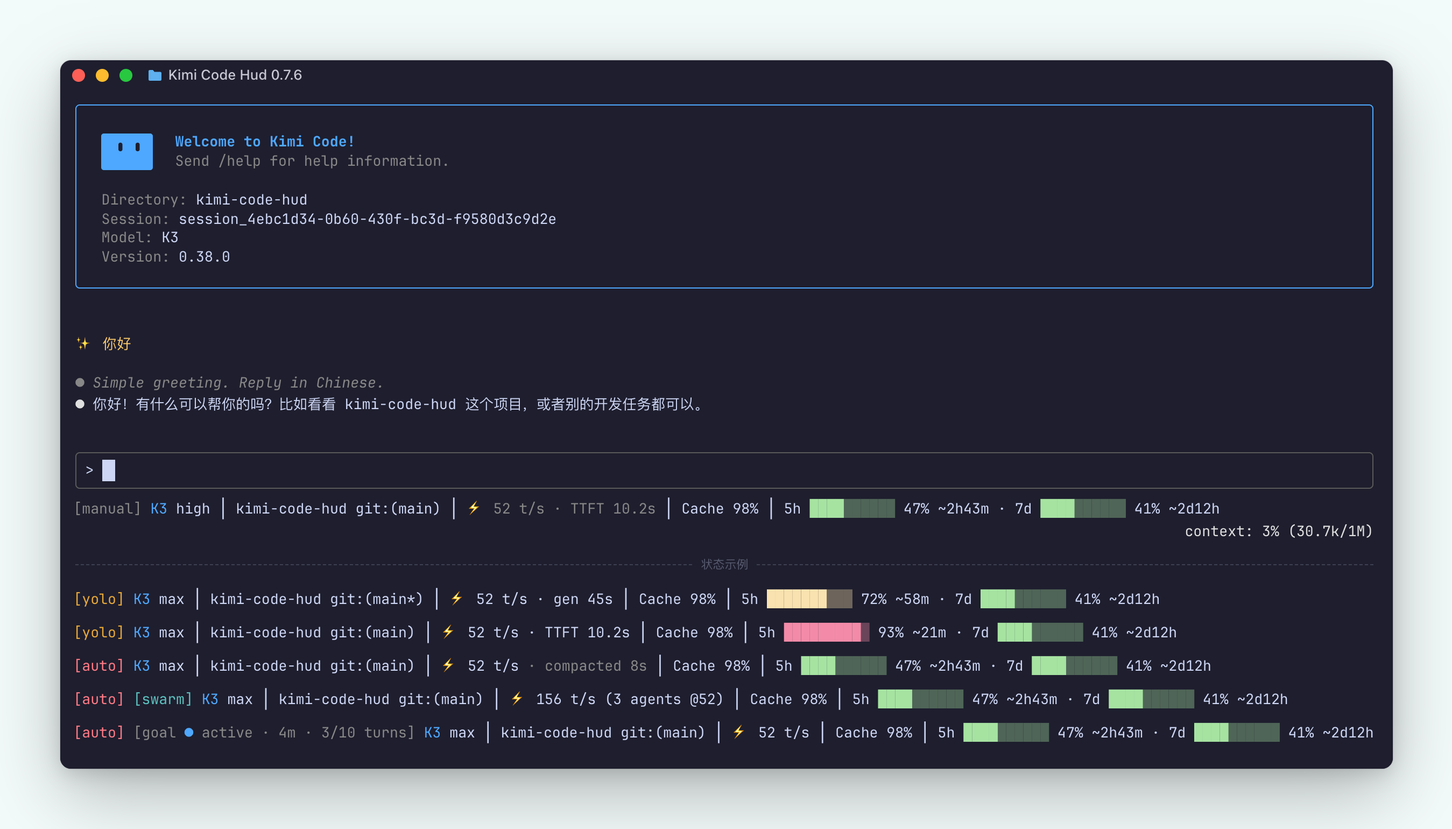
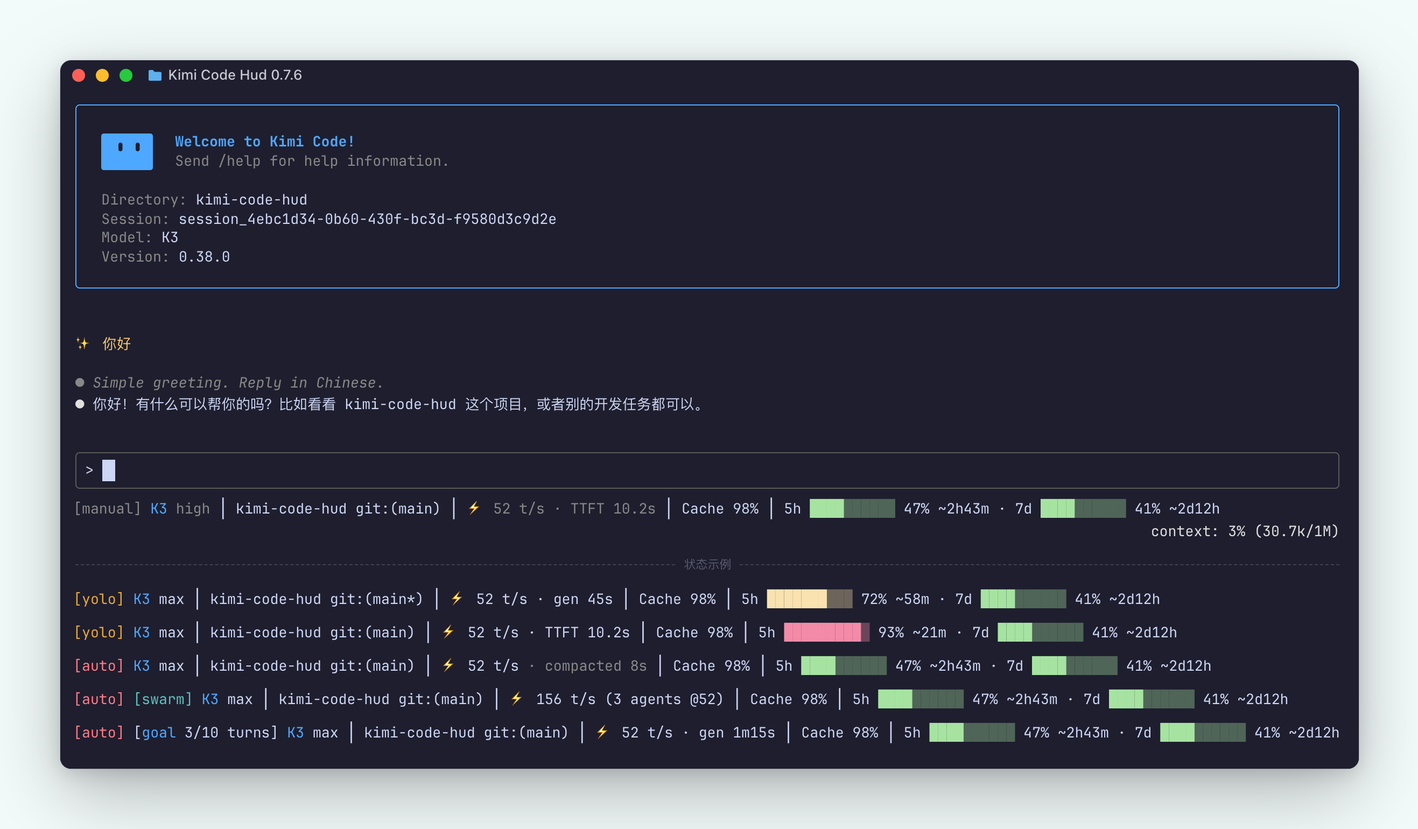
feat: goal 徽章简化为状态着色单词并移除时长

diff --git a/README.en.md b/README.en.md
@@ -102,7 +102,7 @@ normal:  [manual] K3 high │ kimi-code-hud git:(main*) │ ⚡ 47 t/s · TTFT 1
 In /goal mode a goal badge is inserted between the mode badges and the model (shown in every tier, matching the built-in footer's slot order):
 
 ```
-[manual] [goal ● active · 4m · 7 turns] K3 high │ …
+[manual] [goal 7 turns] K3 high │ …
 ```
 
 While background tasks run, task badges are inserted between the model and the directory (shown in every tier; each category hides at zero):
@@ -112,7 +112,7 @@ While background tasks run, task badges are inserted between the model and the d
 ```
 
 - Model name: painted in the host's primary blue (dark theme `#4FA8FF` / light theme `#1565C0`, the blue used for links and inline code in the conversation, following the resolved theme). The model suffix shows thinking state: ` thinking` for boolean models, a bare effort level for effort-capable ones (e.g. `K3 high`, compact keeps the same ` <effort>` suffix). The status-line payload does not carry it; prefer the session-log events — newer hosts bind the session profile once at start as `profile.bind` (older hosts used `config.update`) with `modelAlias` + `thinkingEffort` (older key `thinkingLevel`), and every `llm.request` row also carries the effort and model alias the request actually ran with, so an in-session effort/model switch that emits no profile/config row still updates the HUD on the next request. When neither exists, pin the value per session in `~/.kimi-code-hud/thinking-<sessionId>.json`; only when no snapshot exists does it fall back to the `[thinking]` and model tables in `~/.kimi-code/config.toml` and write the snapshot — so another session running `/effort`, which rewrites the global config, no longer changes what this session shows. The snapshot records the provenance: a wire-confirmed level keeps the default foreground, while a level only inferred from config (before the first turn's wire rows on a lazy-started session) renders muted gray and returns to normal once the wire confirms the actual effort;
-- Goal badge: mirrors the built-in footer's format (`[goal ● <status> · <elapsed> · <turns>]`, `3/10 turns` when a turn budget is set; dot: active blue / blocked amber / paused muted). The status-line payload carries no goal field, so the state is rebuilt from the session log's `goal.create`/`goal.update`/`goal.clear`/`forked` ops in `wire.jsonl` (same incremental scan as TPS); an active goal ticks every second from `wallClockResumedAt`, and the badge disappears once the goal completes or is cleared. While the badge is up, the speed segment keeps throughput only: the `gen` timer, TTFT and the compaction state all hide — the badge already carries the session clock, the same reason auto-compactions inside a turn stay hidden;
+- Goal badge: `[goal <turns>]` (`3/10 turns` = used/limit when the goal carries a turn budget); all three states share one shape and differ only in color — active/blocked paint the word "goal" blue / amber with the brackets and turn count in the default foreground, paused renders the whole badge muted. The status-line payload carries no goal field, so the state is rebuilt from the session log's `goal.create`/`goal.update`/`goal.clear`/`forked` ops in `wire.jsonl` (same incremental scan as TPS); the badge disappears once the goal completes or is cleared. The badge renders no clock, so the speed segment's `gen` timer, TTFT and compaction states keep showing while a goal is live;
 - TPS: only accepts `step.end` samples whose streaming phase lasts at least 250ms and whose calculated rate is no higher than 1000 t/s. With fewer than 3 valid samples a provisional reading (the median of whatever fresh samples exist) shows in muted gray; at 3 samples the full median of the latest 5 at most takes over in normal brightness. When the window expires (the last sample is older than 2 minutes) the segment does not disappear: the last median stays visible in muted gray, and the first sample of a fresh window immediately takes over as a muted provisional reading. A model change discards the old median and restarts the warmup. Only when no valid sample exists at all (e.g. a brand-new session before its first `step.end`) does the latest TTFT show on its own;
 - Cache: the token-weighted prompt-cache hit rate for the whole session, `Σ inputCacheRead / Σ (inputOther + inputCacheRead + inputCacheCreation)`, accumulated across turns over every main-agent model request (steps with incomplete usage fields are skipped). Because the number is cumulative, it is always the latest complete value and stays bright between prompts instead of flashing gray at each turn start. The segment is omitted only while the session has no data at all. Both tiers show only the percentage; no red/yellow/green quality threshold is applied;
 - Quota: bar + percentage + reset countdown in normal; compact drops the bar and keeps percentage + countdown; the weekly (7d) segment appears only in normal. Quota shows only while the active model is served by the managed Kimi Code subscription (`managed:kimi-code`) — models from third-party providers added via `/provider` hide the whole section (the quota API describes the managed subscription only, not what the session is actually consuming); `/logout` deletes the cache together with the credentials;
@@ -135,7 +135,7 @@ Data sources:
 | Segment | Source |
 |---|---|
 | model / branch | stdin snapshot + `git status --porcelain=v1 --branch` resolved from PATH to an absolute executable outside the workspace; results persist across command processes in `~/.kimi-code-hud/git-status-cache.json`, keyed only by a cwd SHA-256, for 15 seconds and at most 64 worktrees; the child runs with `GIT_OPTIONAL_LOCKS=0`, and each probe still has a 150ms ceiling; no trusted `git` silently omits the dirty marker |
-| TPS / TTFT / Cache / thinking / goal / swarm / model usage | incremental parsing of `turn.prompt`, `step.end`, `usage.record`, `llm.request`, `turn.cancel`, `config.update`, `goal.*`, `swarm_mode.*` and `full_compaction.*` events in **all** `~/.kimi-code/sessions/*/session_<id>/agents/*/wire.jsonl` of the session (main + every subagent; legacy `ses_<id>` also supported). Samples carry the event timestamp and are bucketed per agent: only the freshest 5 within the last 10 minutes feed each agent's median, so resume continuations, long idle gaps and compactions never mix in stale numbers. With several agents active at once (swarm/subagent runs — a sample within 2 minutes or a request in flight; a subagent leaves the count the moment its turn ends with the closing `end_turn`, without waiting out the 2-minute window) the segment shows the **fleet total plus head count and per-agent average** (`⚡ 305 t/s (12 agents @25)` — 305 is the sum of the active agents' median speeds, `@25` their mean); when the main agent feeds the figure the head count reads `main+N` (e.g. `⚡ 465 t/s (main+4 @93)`) so it can't be mistaken for a pure subagent count; in swarm mode a parked main (blocked waiting on its subagents, no request in flight) is excluded immediately, and outside swarm mode an idle main settles back out once it ages past the 2-minute window. TTFT is the median across active agents so one stuck agent cannot poison the display. While a turn is running (from `turn.prompt` until `end_turn`/`turn.cancel`) the segment swaps TTFT for a live `gen Ns` timer that spans tool calls and steps — how long the command has been working, not just one request (the timer, TTFT and the compaction state all hide while the goal badge is up, leaving throughput only). A between-turns compaction (manual `/compact`, from `full_compaction.begin` until `complete`/`cancel`) takes the same TTFT slot: a live `compacting Ns` ticker, then the dimmed `compacted Ns` holds the slot until the next prompt's `gen` timer takes over — auto-compactions inside a turn are not shown (the `gen` timer covers that span). Cache, thinking, goal and swarm read the main agent's wire only. Model usage has a dedicated cursor over every agent's `usage.record`, accumulates the four token classes by model, and enters cost calculation only after every wire is caught up. Cursors and content-free token counts persist in `~/.kimi-code-hud/metrics-<sessionId>.json`; prompts, responses, and tool output are never stored |
+| TPS / TTFT / Cache / thinking / goal / swarm / model usage | incremental parsing of `turn.prompt`, `step.end`, `usage.record`, `llm.request`, `turn.cancel`, `config.update`, `goal.*`, `swarm_mode.*` and `full_compaction.*` events in **all** `~/.kimi-code/sessions/*/session_<id>/agents/*/wire.jsonl` of the session (main + every subagent; legacy `ses_<id>` also supported). Samples carry the event timestamp and are bucketed per agent: only the freshest 5 within the last 10 minutes feed each agent's median, so resume continuations, long idle gaps and compactions never mix in stale numbers. With several agents active at once (swarm/subagent runs — a sample within 2 minutes or a request in flight; a subagent leaves the count the moment its turn ends with the closing `end_turn`, without waiting out the 2-minute window) the segment shows the **fleet total plus head count and per-agent average** (`⚡ 305 t/s (12 agents @25)` — 305 is the sum of the active agents' median speeds, `@25` their mean); when the main agent feeds the figure the head count reads `main+N` (e.g. `⚡ 465 t/s (main+4 @93)`) so it can't be mistaken for a pure subagent count; in swarm mode a parked main (blocked waiting on its subagents, no request in flight) is excluded immediately, and outside swarm mode an idle main settles back out once it ages past the 2-minute window. TTFT is the median across active agents so one stuck agent cannot poison the display. While a turn is running (from `turn.prompt` until `end_turn`/`turn.cancel`) the segment swaps TTFT for a live `gen Ns` timer that spans tool calls and steps — how long the command has been working, not just one request. A between-turns compaction (manual `/compact`, from `full_compaction.begin` until `complete`/`cancel`) takes the same TTFT slot: a live `compacting Ns` ticker, then the dimmed `compacted Ns` holds the slot until the next prompt's `gen` timer takes over — auto-compactions inside a turn are not shown (the `gen` timer covers that span). Cache, thinking, goal and swarm read the main agent's wire only. Model usage has a dedicated cursor over every agent's `usage.record`, accumulates the four token classes by model, and enters cost calculation only after every wire is caught up. Cursors and content-free token counts persist in `~/.kimi-code-hud/metrics-<sessionId>.json`; prompts, responses, and tool output are never stored |
 | quota (5h/7d) | the official `/usages` quota API — `GET https://api.kimi.com/coding/v1/usages` by default; with 0.38.0 dual-region, the region is resolved from env `KIMI_CODE_OAUTH_HOST`/`KIMI_OAUTH_HOST` → config.toml's `[providers."managed:kimi-code".oauth]` (`oauth_host`/`key`) and the provider table's `base_url`, and a global login switches to `https://api.kimi.ai/coding/v1/usages` with the scoped credential file derived from the oauth key — any non-official host/base_url fails closed to the default. Cached 60s in `~/.kimi-code-hud/quota.json`; when stale, the hot path renders the stale cache and spawns a detached background refresh — never blocking. Rendered and refreshed only while the active model can be attributed explicitly to `managed:kimi-code` (resolved from the session log's `modelAlias` via the `provider` key of the matching `config.toml` model table). Missing providers, unreadable config, and unresolved models fail closed: neither quota nor provider usage is rendered or refreshed. The cache is deleted when the credentials are gone (`/logout`); a 401 with a refresh_token still present (expired access_token — common while idle, since the CLI refreshes lazily) keeps the stale cache until the refresh succeeds |
 | provider usage | active `modelAlias` → model table → provider table in `config.toml`. DeepSeek balance comes from the official `GET https://api.deepseek.com/user/balance`, isolated by provider + API-key fingerprint under `~/.kimi-code-hud/provider-usage/`; the hot path reads cache only and refreshes in the background. Its Session Cost, like OpenAI / Anthropic, combines the local all-agent model-usage ledger with built-in official standard pricing and selects the CNY or USD table from the balance response. Balance and cost facts are collected independently and can render together; unknown currency, custom proxies, unknown models, and mixed-provider ledgers fail closed |
 

diff --git a/README.md b/README.md
@@ -102,7 +102,7 @@ normal:  [manual] K3 high │ kimi-code-hud git:(main*) │ ⚡ 47 t/s · TTFT 1
 /goal 模式下，模式徽章与模型之间插入 goal 徽章（两档都显示，与宿主默认 footer 的槽位顺序一致）：
 
 ```
-[manual] [goal ● active · 4m · 7 turns] K3 high │ …
+[manual] [goal 7 turns] K3 high │ …
 ```
 
 后台任务运行时，模型与目录之间插入任务徽章（两档都显示，为 0 的类别各自隐藏）：
@@ -112,7 +112,7 @@ normal:  [manual] K3 high │ kimi-code-hud git:(main*) │ ⚡ 47 t/s · TTFT 1
 ```
 
 - 模型名以宿主主蓝色（dark 主题 `#4FA8FF` / light 主题 `#1565C0`，即对话中链接/行内代码的蓝，随主题切换）显示；模型后缀显示 thinking 状态：布尔模型为 ` thinking`，支持 effort 的模型直接显示强度（如 `K3 high`，compact 档同样只保留 ` <effort>`）（status line payload 不含此字段；优先取会话日志事件——新版宿主会话启动时以 `profile.bind`（旧版为 `config.update`）记录 `modelAlias` + `thinkingEffort`（更旧键为 `thinkingLevel`），且每次请求的 `llm.request` 行都带有本次实际运行的 effort 与模型别名：会话内切换 effort/模型即使不再产生 profile/config 事件，下一次请求也会让 HUD 跟随更新。都没有时按会话快照固定取值，快照存 `~/.kimi-code-hud/thinking-<sessionId>.json`；快照不存在时才回退解析 `~/.kimi-code/config.toml` 的 `[thinking]` 与模型表并写入快照——这样其他会话执行 `/effort` 改写全局配置后，本会话显示不会跟着变。快照记录取值来源：wire 确认的级别保持默认前景色，仅由 config 推断的未确认级别（懒启动会话首轮 wire 事件之前）以暗灰显示，首轮拿到 wire 实际 effort 后恢复）；
-- goal 徽章：格式与宿主默认 footer 一致（`[goal ● <status> · <计时> · <轮数>]`；设了 turn 预算显示 `3/10 turns`；圆点 active 蓝 / blocked 琥珀 / paused 暗灰）。status line payload 不含 goal 字段，状态从会话日志 `wire.jsonl` 的 `goal.create`/`goal.update`/`goal.clear`/`forked` op 重建（与 TPS 同一次增量扫描）；active 时按 `wallClockResumedAt` 每秒走动计时，goal 完成或清除后徽章消失。徽章显示期间速度段只留吞吐——`gen` 计时、TTFT 与压缩状态一并隐藏（徽章已自带会话计时，与回合内自动压缩不展示同一逻辑：该时段已被任务计时覆盖）；
+- goal 徽章：`[goal <轮数>]`（设了 turn 预算显示 `3/10 turns`＝已用/上限）；三种状态样式一致、仅颜色不同——active / blocked 时 goal 一词分别为蓝 / 琥珀，括号与轮数保持默认前景色；paused 整串暗灰。status line payload 不含 goal 字段，状态从会话日志 `wire.jsonl` 的 `goal.create`/`goal.update`/`goal.clear`/`forked` op 重建（与 TPS 同一次增量扫描）；goal 完成或清除后徽章消失。徽章不再渲染时长，goal 期间速度段的 `gen` 计时、TTFT 与压缩状态照常显示；
 - TPS 只接纳流式阶段至少 250ms、且不超过 1000 t/s 的 `step.end` 样本；不足 3 个有效样本时先以暗灰显示临时读数（现有样本的中位数），攒够 3 个后转为正常亮度，取最近最多 5 个样本的中位数。窗口过期（最后一个样本超过 2 分钟）后不隐藏：最后一次中位数以暗灰继续显示，新窗口的第一个样本会立即以暗灰临时读数接手；模型切换时旧中位数一并清除、重新预热。只有连一个有效样本都还没有时（如全新会话尚未完成任何 `step.end`）才单独显示最近一次 TTFT；
 - Cache 为本次会话的 token 加权缓存命中率：`Σ inputCacheRead / Σ (inputOther + inputCacheRead + inputCacheCreation)`，跨回合累计主 Agent 的全部模型请求（usage 字段不完整的 step 跳过不计）。数值本身即跨回合累计的最新值，回合之间常亮不闪烁；会话尚无数据时整段省略。各档只显示百分比；不使用红黄绿阈值；
 - 配额段：normal 档为柱+百分比+重置倒计时；compact 档去掉柱体，保留百分比和倒计时；周配额（7d）只在 normal 档显示。仅当当前模型由 Kimi Code 托管订阅（`managed:kimi-code`）提供时显示——经 `/provider` 接入、用 `/model` 切到的第三方 provider 模型整段隐藏（配额接口只描述托管订阅，与当前会话实际用量无关）；`/logout` 删除凭证后配额缓存一并清除；
@@ -135,7 +135,7 @@ Kimi Code 的 `~/.kimi-code/tui.toml` 支持 `[status_line]` 自定义命令：
 | 段 | 来源 |
 |---|---|
 | 模型 / 分支 | stdin 快照 + 通过 PATH 解析到工作区外绝对路径的 `git status --porcelain=v1 --branch`；结果跨进程缓存于 `~/.kimi-code-hud/git-status-cache.json`，cwd 只保存 SHA-256，TTL 15 秒、最多 64 个工作区；子进程设置 `GIT_OPTIONAL_LOCKS=0`，单次探针仍受 150ms 上限约束；无可信 `git` 时静默跳过 dirty 标记 |
-| TPS / TTFT / Cache / thinking / goal / swarm / model usage | 增量解析会话目录下**所有** `~/.kimi-code/sessions/*/session_<id>/agents/*/wire.jsonl`（main + 全部 subagent；旧版 `ses_<id>` 前缀兼容）的 `turn.prompt`、`step.end`、`usage.record`、`llm.request`、`turn.cancel`、`config.update`、`goal.*`、`swarm_mode.*` 与 `full_compaction.*` 事件。速度样本带事件时间戳并按 agent 分桶，只取最近 10 分钟内的最多 5 个做中位数——resume 接续、长时间空闲、compact 之后不会混入陈旧样本。多个 agent 同时活跃（swarm/subagent，2 分钟内有样本或有请求在飞；子 agent 回合随收尾 `end_turn` 结束立即退出统计，不会拖到 2 分钟窗口过期）时显示**舰队总速度 + agent 数 + 平均速度**（`⚡ 305 t/s (12 agents @25)`：305 是各活跃 agent 中位速度的合计，`@25` 是其均值）；主 agent 计入时头数标注为 `main+N`（如 `⚡ 465 t/s (main+4 @93)`），避免 swarm 期间被误读为纯 subagent 数；swarm 模式下 main 阻塞等待子 agent（无在飞请求）时不计入统计，立即回落为纯 subagent 计数，其余场景 main 空闲掉出 2 分钟窗口后回落，TTFT 取活跃 agent 的中位数（单个卡住的 agent 不会污染显示）。回合进行中（从 `turn.prompt` 到 `end_turn`/`turn.cancel`）速度段把 TTFT 换成每秒走字的 `gen Ns` 工作计时——跨工具调用与多个 step 累计，回答「这条命令一共跑了多久」（goal 徽章显示期间该计时、TTFT 与压缩状态一并隐藏，只留速度）。回合之外的上下文压缩（手动 `/compact`，从 `full_compaction.begin` 到 `complete`/`cancel`）同样占 TTFT 槽位：实时 `compacting Ns` 走字，完成后暗灰保留 `compacted Ns` 直到下一条 prompt 的 `gen` 计时接手；回合内触发的自动压缩不显示（该时段由 `gen` 计时覆盖）。Cache、thinking、goal、swarm 只取主 agent wire；model usage 由独立 cursor 读取所有 agent 的 `usage.record`，按模型累计四类 Token，所有 wire 追平后才进入成本计算。cursor 与无正文 Token 计数存于 `~/.kimi-code-hud/metrics-<sessionId>.json`，不保存提示词、回复或工具输出 |
+| TPS / TTFT / Cache / thinking / goal / swarm / model usage | 增量解析会话目录下**所有** `~/.kimi-code/sessions/*/session_<id>/agents/*/wire.jsonl`（main + 全部 subagent；旧版 `ses_<id>` 前缀兼容）的 `turn.prompt`、`step.end`、`usage.record`、`llm.request`、`turn.cancel`、`config.update`、`goal.*`、`swarm_mode.*` 与 `full_compaction.*` 事件。速度样本带事件时间戳并按 agent 分桶，只取最近 10 分钟内的最多 5 个做中位数——resume 接续、长时间空闲、compact 之后不会混入陈旧样本。多个 agent 同时活跃（swarm/subagent，2 分钟内有样本或有请求在飞；子 agent 回合随收尾 `end_turn` 结束立即退出统计，不会拖到 2 分钟窗口过期）时显示**舰队总速度 + agent 数 + 平均速度**（`⚡ 305 t/s (12 agents @25)`：305 是各活跃 agent 中位速度的合计，`@25` 是其均值）；主 agent 计入时头数标注为 `main+N`（如 `⚡ 465 t/s (main+4 @93)`），避免 swarm 期间被误读为纯 subagent 数；swarm 模式下 main 阻塞等待子 agent（无在飞请求）时不计入统计，立即回落为纯 subagent 计数，其余场景 main 空闲掉出 2 分钟窗口后回落，TTFT 取活跃 agent 的中位数（单个卡住的 agent 不会污染显示）。回合进行中（从 `turn.prompt` 到 `end_turn`/`turn.cancel`）速度段把 TTFT 换成每秒走字的 `gen Ns` 工作计时——跨工具调用与多个 step 累计，回答「这条命令一共跑了多久」。回合之外的上下文压缩（手动 `/compact`，从 `full_compaction.begin` 到 `complete`/`cancel`）同样占 TTFT 槽位：实时 `compacting Ns` 走字，完成后暗灰保留 `compacted Ns` 直到下一条 prompt 的 `gen` 计时接手；回合内触发的自动压缩不显示（该时段由 `gen` 计时覆盖）。Cache、thinking、goal、swarm 只取主 agent wire；model usage 由独立 cursor 读取所有 agent 的 `usage.record`，按模型累计四类 Token，所有 wire 追平后才进入成本计算。cursor 与无正文 Token 计数存于 `~/.kimi-code-hud/metrics-<sessionId>.json`，不保存提示词、回复或工具输出 |
 | 配额（5h/7d） | 官方 `/usages` 配额接口——默认 `GET https://api.kimi.com/coding/v1/usages`；0.38.0 双区域下按 env `KIMI_CODE_OAUTH_HOST`/`KIMI_OAUTH_HOST` → `config.toml` 的 `[providers."managed:kimi-code".oauth]`（`oauth_host`/`key`）与 provider 表 `base_url` 判定区域，global 区域改用 `https://api.kimi.ai/coding/v1/usages` 并读取 oauth key 派生的 scoped 凭证文件，任何非官方 host/base_url 一律失败关闭回退默认。60 秒 TTL 缓存于 `~/.kimi-code-hud/quota.json`，过期时热路径用过期缓存渲染并 spawn 后台刷新，绝不阻塞。仅当前模型可明确归因于 `managed:kimi-code`（按会话日志的 `modelAlias` → `config.toml` 模型表的 `provider` 键判定）时渲染与刷新；provider 缺失、配置不可读或模型无法归因时失败关闭，额度与 provider usage 都不显示、不刷新；凭证缺失（`/logout`）时缓存一并删除；access_token 过期但 refresh_token 仍在（CLI 懒刷新，空闲期常见）时 401 不再清缓存，保留旧值直至刷新成功 |
 | Provider usage | 当前模型的 `modelAlias` → `config.toml` 模型表 → provider 表。DeepSeek 通过官方 `GET https://api.deepseek.com/user/balance` 获取余额，按 provider + API Key 指纹隔离缓存于 `~/.kimi-code-hud/provider-usage/`；热路径只读缓存并在过期后后台刷新；其 Session Cost 与 OpenAI / Anthropic 一样，使用本地全 agent model-usage ledger 与内置官方标准定价计算，并按余额响应的 CNY / USD 选择对应价格。余额事实和成本事实独立收集、可同时渲染；币种未知、自建代理、未知模型和混合 provider ledger 都失败关闭 |
 

diff --git a/CAPABILITIES.md b/CAPABILITIES.md
@@ -150,7 +150,7 @@ does not need to be redrawn by the command.
 | permission mode | `manual` has no badge; `auto` / `yolo` use the warning color | Reads `permissionMode`; always shows `[manual]`, and makes `[auto]` red | covered, presentation variant |
 | plan mode | `plan` in the mode slot | Reads `planMode` | covered, presentation variant |
 | swarm mode | `swarm` in the mode slot | Rebuilds state from main-wire `swarm_mode.enter` / `swarm_mode.exit`; a future `payload.swarmMode` also works | covered since HUD 0.2.7 |
-| goal | status, elapsed time, turns, optional turn budget | Rebuilds `goal.create` / `goal.update` / `goal.clear` / `forked` and renders the same lifecycle fields | covered |
+| goal | status, elapsed time, turns, optional turn budget | Rebuilds `goal.create` / `goal.update` / `goal.clear` / `forked`; renders a shortened badge — status lives on the goal word's color (active blue, blocked amber, paused muted), turns and optional turn budget kept, elapsed clock dropped | covered, presentation variant |
 | model and thinking | display name plus `thinking` or `thinking: <effort>` | Uses payload model plus wire/config snapshot; renders bare effort (`K3 high`), muted while only config-inferred (pre-first-turn lazy start) until the wire confirms it | covered, presentation variant |
 | background Shell | `[N task(s) running]` for running `process` / `bash-*` tasks | Reduces main-wire `task.started` / `task.terminated` and reconciles `tasks/<taskId>.json` sidecars; renders the same badge between model and cwd | covered — [KI-1](KNOWN_ISSUES.md#ki-1-background-task-badges-are-absent) closed |
 | background Agent | `[N agent(s) running]` for running `agent` tasks | Same reducer; `agent` kind is counted and badged separately | covered — [KI-1](KNOWN_ISSUES.md#ki-1-background-task-badges-are-absent) closed |
@@ -178,7 +178,7 @@ commands are documented in [README.md](README.md#安装) and
 | permission mode | use `/permission`, `/auto [on\|off]`, or `/yolo [on\|off]` | `[manual]`, `[auto]`, or `[yolo]` | available |
 | plan mode | use `/plan`, `/plan on`, or `/plan off` | `[plan]` while plan mode is active | available |
 | swarm mode | use `/swarm`, `/swarm on`, `/swarm off`, or `/swarm <task>` | `[swarm]`; fleet speed appears when multiple agent wires contribute | available |
-| goal lifecycle | start with `/goal <objective>`; inspect or manage with `/goal status`, `/goal pause`, `/goal resume`, `/goal cancel`, or `/goal replace <objective>` | goal status, elapsed time, turns, and optional turn budget | available |
+| goal lifecycle | start with `/goal <objective>`; inspect or manage with `/goal status`, `/goal pause`, `/goal resume`, `/goal cancel`, or `/goal replace <objective>` | goal status as the badge word's color, turns, and optional turn budget | available |
 | model and thinking | use `/model`; set thinking effort with `/effort` or its `/thinking` alias | model display name and thinking-effort suffix | available |
 | TPS, TTFT, and generation time | run normal prompts; no separate command is required | live `gen`; TPS and TTFT after enough valid samples exist | available, automatic |
 | compaction | use `/compact [instruction]`, or allow automatic compaction | live and most recent compaction duration | available, automatic |
@@ -219,7 +219,7 @@ public contract.
 | Cache reducer state | exact session-cumulative `readTokens` and `inputTokens` plus their ratio | renders only rounded `Cache N%` | exact `Cache N% (read/input)` is available without new wire parsing; token counts were removed with the full layout in HUD 0.6.0 |
 | `usage.record` | the same four usage counters, model, and optional session/turn scope | a dedicated all-agent cursor accumulates model-scoped session totals for supported DeepSeek / OpenAI / Anthropic local cost estimates | cursor and content-free counters persist; the estimate remains hidden until every visible wire is caught up and every nonzero row belongs to the active provider, and must never also add duplicate `step.end` usage |
 | per-agent wires | per-agent TPS samples, TTFT, request/turn timestamps, and agent directory identity | aggregates fleet total, contributing-agent count, average, and median TTFT | an expanded/debug view could expose per-agent rows; the one-line footer should stay aggregated |
-| goal records | objective, criterion, status/reason, turns, tokens, elapsed time, and turn/token/time budgets | status, elapsed time, turns, and turn budget | numeric token/time budget progress is readable with a reducer extension; objective, criterion, and reasons are content and should not enter the footer by default |
+| goal records | objective, criterion, status/reason, turns, tokens, elapsed time, and turn/token/time budgets | status (the goal word's color), turns, and turn budget | numeric token/time budget progress is readable with a reducer extension; elapsed time is no longer rendered, since the badge carries no clock; objective, criterion, and reasons are content and should not enter the footer by default |
 | task records | task ID, kind, status, timestamps, timeout, plus kind-specific process/agent details | the two running counts (`tasks.bash` / `tasks.agents`) | command, PID, description, subagent type, stop reason, and output tail stay out of the footer; they belong in task/debug views |
 | `subagent.spawned` model fields | display-normalized model alias and effective thinking effort per subagent (optional, added upstream 0.34.0) | not rendered | deliberately not shown: the footer stays aggregated, consistent with the fleet-speed presentation; a task/debug view could expose per-subagent model and effort |
 | compaction records | begin/end timing; compaction records also carry message counts and summaries | live and last compaction duration | compaction count/message count could support diagnostics; summaries are content and should remain hidden |

diff --git a/CHANGELOG.md b/CHANGELOG.md
@@ -6,6 +6,17 @@ The project follows [Semantic Versioning](https://semver.org/).
 
 ## [Unreleased]
 
+### Changed
+
+- Goal badge rework: shortened to `[goal 7 turns]` (`3/10 turns` when the
+  goal carries a turn budget) — the status dot, status word and elapsed
+  clock are gone. All three states share one shape and differ only in
+  color: the word "goal" carries the status color (active blue, blocked
+  amber) with the brackets and turn count in the default foreground;
+  paused renders the whole badge muted. With the badge clock gone, the
+  speed segment shows the gen timer, TTFT and compaction states again
+  while a goal is live.
+
 ## [0.7.6] - 2026-08-21
 
 ### Changed
